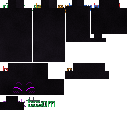
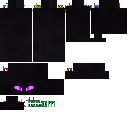
A shade closes her eyes when she is petted
The ^^ was borrowed from the enderman and it never fit her: she is the only one
here with eyes painted into her hide rather than two glowing rectangles bolted
on, so closing them is a thing only she can do. Endermen keep the ^^.

The closed eyes that came back last round become the pet expression, and the
open ones go back on the sheet as her resting face. Both paintings share one
hide, which is not cosmetic -- the shell borrows from it for every texel it
covers but does not repaint, so two different mottle draws would read as a
patch across her face. Re-restyle one and you must re-restyle the other.

It wraps the whole head because her eyes do. They are painted 13..34 across a
front face that runs 16..32, so they overhang three texels onto each side, and
make_shade_face.py reports the overlay reaching east, north and west. An
expression on the front face alone would have left the open eyes' outer corners
showing while the rest of her closed them.

Shell rather than a second sheet, for the reason the shell was already an array:
per-shade variants are coming, and four shades times two expressions is eight
full-body sheets to keep in step, against four plus one 64x32 overlay they all
share. It is cut from the difference between the two paintings, so anything not
about her eyes is transparent by construction and cannot drift.

One opaque pass, not the mask-then-additive pair the ^^ needed. RenderType.eyes
[…]

Changed region(s): [[0.0938, 0.625, 0.2812, 0.7188]]

diff --git a/tools/make_shade_face.py b/tools/make_shade_face.py
@@ -1,34 +1,41 @@
 #!/usr/bin/env python3
-"""Rescale the ^^ face onto the shade's head, and cut a mask that fits it.
+"""Cut the court's pet expression out of a second painting of her head.
 
     python3 tools/make_shade_face.py
 
-The ^^ was drawn for a vanilla enderman: an 8-unit head, so eight texels across
-the face. A shade's head is 16 authored units, which is the same half-block
-wide in game but twice the texels, and the old sheet stretched over it would be
-eight fat squares. This writes the same expression at the size the shade's head
-actually samples, so it can be repainted at the detail the rest of her has.
+A shade does not do the enderman's ^^. She closes her eyes, which is a thing
+only she can do, because only she has eyes painted into her hide rather than
+two glowing rectangles bolted on. Endermen keep the ^^; see enderman_happy.png.
 
-Both sheets are a single 16-cube at texOffs(0, 0), which fills a 64x32 sheet
-exactly:
+Two sheets in, one out:
 
-    up   16..32 / 0..16      down 32..48 / 0..16
-    east  0..16 / 16..32     NORTH 16..32 / 16..32   <- the face
-    west 32..48 / 16..32     south 48..64 / 16..32
+    art/femshade.png       her hide, eyes open      -- what she wears
+    art/femshade_pet.png   the same sheet, eyes closed
+    -> shade_pet.png       the difference, as a shell that goes over her head
 
-That layout is the head island of shade_base.bbmodel moved up by 63 rows and
-nothing else, which is the whole trick: a 16-cube at (0, 0) and a 16-cube at
-(0, 63) lay their faces out identically. So the mask can be cut straight from
-wherever the shade's own sheet is painted, and it lands exactly on top.
+Both sheets must share a hide, because the shell borrows from it: any texel the
+overlay covers but does not repaint has to come back as the hide that is
+already there, or the shell reads as a patch. Re-run mottle_skin.py --restyle
+on one and you must re-run it on the other.
 
-  shade_happy.png       the expression. Drawn through RenderType.eyes, so it
-                        is additive and glows; black is invisible there.
-  shade_happy_mask.png  an opaque plate in ordinary cutout, drawn first, that
-                        hides the eyes already painted on her. Additive art
-                        can only ever sit on top of them otherwise, which
-                        reads as blush rather than as a face.
-  art/shade_happy_guide.png   the same layout with the six faces outlined,
-                        for painting against. Never shipped.
+WHY A SHELL AND NOT A TEXTURE SWAP. Swapping her sheet for a second one is one
+draw instead of two and tempting for that -- but it doubles the art. Per-shade
+variants are coming, and four shades times two expressions is eight full-body
+sheets to keep in step, against four plus one 64x32 shell shared by all of
+them. The shell also cannot drift: it is cut from the difference between the
+two paintings, so anything not about her eyes is transparent by construction.
+
+WHY IT WRAPS THE WHOLE HEAD. Her eyes are painted 13..34 across a front face
+that runs 16..32, so they overhang three texels onto each side of her head. An
+expression on the front face alone would leave the open eyes' outer corners
+showing while the rest of her closed them. The shell is a full head cube and
+the overlay covers whichever faces the paint reaches.
+
+WHY IT IS OPAQUE AND NOT ADDITIVE. The enderman's ^^ draws through
+RenderType.eyes because it is replacing something that glows. Hers do not glow
+-- they are paint on a hide -- so the overlay is ordinary cutout, drawn in one
+pass. That also means it needs no separate mask: the plate that hides the open
+eyes and the closed eyes it draws instead are the same texels.
 """
 
 import os
@@ -37,25 +44,24 @@ from PIL import Image
 
 HERE = os.path.dirname(os.path.dirname(os.path.abspath(__file__)))
 ASSETS = os.path.join(HERE, "src/main/resources/assets/enderdragonanthro/textures/entity")
-SOURCE = os.path.join(ASSETS, "enderman_happy.png")
-SHEET = os.path.join(ASSETS, "shade.png")
+BASE = os.path.join(HERE, "art/femshade.png")
+PET = os.path.join(HERE, "art/femshade_pet.png")
+OUT = os.path.join(ASSETS, "shade_pet.png")
+GUIDE = os.path.join(HERE, "art/shade_pet_guide.png")
 
-CUBE = 16                   # the shade's head, in authored units
-SIZE = (4 * CUBE, 2 * CUBE)  # ...which is exactly one island
-HEAD_V = 63                 # where that island sits on the shade's own sheet
+CUBE = 16                     # her head, in authored units
+SIZE = (4 * CUBE, 2 * CUBE)   # ...which is exactly one island
+HEAD_V = 63                   # where that island sits on her own sheet
 
-# How far the mask spreads past a painted texel. One is enough to swallow the
+# How far the overlay spreads past a texel that differs. One swallows the
 # lashes' stray corners without eating into the hide around them.
 DILATE = 1
 
-
-def upscale(name, out):
-    """The old 8-cube sheet, doubled -- which lands every face where the
-    16-cube wants it, because both islands start at (0, 0)."""
-    src = Image.open(os.path.join(ASSETS, name)).convert("RGBA")
-    big = src.resize((src.width * 2, src.height * 2), Image.NEAREST)
-    big.crop((0, 0, *SIZE)).save(out)
-    return out
+# What counts as paint rather than hide. The mottle tops out around luminance
+# 22 and stays grey by construction, so either test alone would do; both
+# together mean a white highlight survives as readily as a magenta one.
+KEEP_LUM = 30
+KEEP_CHROMA = 12
 
 
 def slots():
@@ -65,65 +71,45 @@ def slots():
 
 
 def on_a_face():
-    """Texels an island actually samples. The corners it does not are where
-    the rig's old island labels ended up, and masking those is just litter."""
+    """Texels an island actually samples. The corners it does not are where the
+    rig's old island labels ended up, and covering those is just litter."""
     return {(ox + i, oy + j) for (ox, oy) in slots().values()
             for j in range(CUBE) for i in range(CUBE)}
 
 
-def painted(sheet):
-    """Texels of the head island the artist has put colour on.
+def is_paint(px, x, y):
+    r, g, b, a = px[x, y]
+    if not a:
+        return False
+    return (0.299 * r + 0.587 * g + 0.114 * b > KEEP_LUM
+            or max(r, g, b) - min(r, g, b) > KEEP_CHROMA)
 
-    Anything that is not hide: the mottle runs to luminance 22 and stays grey,
-    so a threshold on brightness or on chroma catches the eyes and nothing else.
+
+def overlay(base, pet):
+    """Every texel the two paintings disagree on, drawn as the pet one.
+
+    Grown by DILATE first, so a lash the closed eye does not reach is still
+    covered rather than left poking out from under the new expression.
     """
-    px = sheet.load()
-    out = set()
-    for (x, y) in on_a_face():
-        r, g, b, a = px[x, y + HEAD_V]
-        if not a:
-            continue
-        if 0.2126 * r + 0.7152 * g + 0.0722 * b > 30 or max(r, g, b) - min(r, g, b) > 12:
-            out.add((x, y))
-    return out
-
-
-def nearest_hide(sheet, covered, x, y):
-    """Real hide from as close to (x, y) as the paint allows.
-
-    A single averaged tone would be flat, and a flat eye-shaped patch on a
-    mottled face still reads as an eye. Borrowing the nearest unpainted texel
-    keeps the grain running through the plate, so it disappears instead.
-    """
-    px = sheet.load()
+    b, p = base.load(), pet.load()
     surface = on_a_face()
-    for r in range(1, SIZE[0]):
-        ring = [(x + dx, y + dy)
-                for dy in range(-r, r + 1) for dx in range(-r, r + 1)
-                if max(abs(dx), abs(dy)) == r]
-        for p in sorted(ring, key=lambda q: (abs(q[1] - y), abs(q[0] - x))):
-            if p in covered or p not in surface:
-                continue
-            r_, g_, b_, a_ = px[p[0], p[1] + HEAD_V]
-            if a_:
-                return (r_, g_, b_, 255)
-    return (15, 15, 18, 255)
-
-
-def mask(sheet, out):
-    marks = painted(sheet)
-    grown = {(x + dx, y + dy) for (x, y) in marks
+    differ = {(x, y) for (x, y) in surface
+              if b[x, y + HEAD_V] != p[x, y + HEAD_V]
+              or is_paint(b, x, y + HEAD_V) or is_paint(p, x, y + HEAD_V)}
+    grown = {(x + dx, y + dy) for (x, y) in differ
              for dx in range(-DILATE, DILATE + 1)
-             for dy in range(-DILATE, DILATE + 1)} & on_a_face()
+             for dy in range(-DILATE, DILATE + 1)} & surface
+
     img = Image.new("RGBA", SIZE, (0, 0, 0, 0))
     px = img.load()
-    for (x, y) in sorted(grown):
-        px[x, y] = nearest_hide(sheet, grown, x, y)
-    img.save(out)
-    return len(marks), len(grown)
+    for (x, y) in grown:
+        if p[x, y + HEAD_V][3]:
+            px[x, y] = p[x, y + HEAD_V]
+    img.save(OUT)
+    return len(differ), len(grown)
 
 
-def guide(out):
+def guide():
     img = Image.new("RGBA", SIZE, (0, 0, 0, 0))
     px = img.load()
     for name, (ox, oy) in slots().items():
@@ -132,19 +118,25 @@ def guide(out):
             for (x, y) in ((ox + i, oy), (ox + i, oy + CUBE - 1),
                            (ox, oy + i), (ox + CUBE - 1, oy + i)):
                 px[x, y] = edge
-    img.save(out)
+    img.save(GUIDE)
 
 
 def main():
-    face = upscale("enderman_happy.png", os.path.join(ASSETS, "shade_happy.png"))
-    sheet = Image.open(SHEET).convert("RGBA")
-    marks, grown = mask(sheet, os.path.join(ASSETS, "shade_happy_mask.png"))
-    guide(os.path.join(HERE, "art/shade_happy_guide.png"))
-    print(f"{os.path.relpath(face, HERE)}: {SIZE[0]}x{SIZE[1]}, "
+    base = Image.open(BASE).convert("RGBA")
+    pet = Image.open(PET).convert("RGBA")
+    if base.size != pet.size:
+        raise SystemExit("the two sheets must be the same size")
+    differ, grown = overlay(base, pet)
+    guide()
+    faces = sorted({name for name, (ox, oy) in slots().items()
+                    for j in range(CUBE) for i in range(CUBE)
+                    if base.load()[ox + i, oy + j + HEAD_V]
+                    != pet.load()[ox + i, oy + j + HEAD_V]})
+    print(f"{os.path.relpath(OUT, HERE)}: {SIZE[0]}x{SIZE[1]}, "
           f"a {CUBE}-unit head at texOffs(0, 0)")
-    print(f"  mask covers {marks} painted texels, {grown} after dilation, "
-          f"in hide borrowed from around them")
-    print("  art/shade_happy_guide.png: face outlines, for painting against")
+    print(f"  {differ} texels differ or carry paint, {grown} after dilation")
+    print(f"  wraps: {', '.join(faces)}")
+    print(f"  {os.path.relpath(GUIDE, HERE)}: face outlines, for painting against")
 
 
 if __name__ == "__main__":

diff --git a/src/main/java/com/enderdragonanthro/client/render/ShadeLayer.java b/src/main/java/com/enderdragonanthro/client/render/ShadeLayer.java
@@ -55,13 +55,11 @@ public class ShadeLayer extends RenderLayer<EnderMan, EndermanModel<EnderMan>> {
         }
     }
 
-    /** The ^^, at the resolution a 16-unit head samples. */
+    /** Her closed eyes, at the resolution a 16-unit head samples. */
     public static final ModelLayerLocation FACE_LAYER =
             new ModelLayerLocation(EnderdragonAnthro.id("shade_face"), "main");
-    private static final ResourceLocation HAPPY =
-            EnderdragonAnthro.id("textures/entity/shade_happy.png");
-    private static final ResourceLocation HAPPY_MASK =
-            EnderdragonAnthro.id("textures/entity/shade_happy_mask.png");
+    private static final ResourceLocation PET =
+            EnderdragonAnthro.id("textures/entity/shade_pet.png");
 
     private final ShadeModel model;
     private final ModelPart face;
@@ -109,15 +107,15 @@ public class ShadeLayer extends RenderLayer<EnderMan, EndermanModel<EnderMan>> {
                 buffers.getBuffer(RenderType.entityCutoutNoCull(SKINS[slot])), light);
 
         if (EndermanHappyClient.isHappy(enderman)) {
-            // Mask first, in ordinary cutout, because RenderType.eyes is
-            // additive: the expression drawn on its own could only sit on top
-            // of the eyes she already has, which reads as blush, not a face.
+            // She closes her eyes rather than wearing the enderman's ^^ -- one
+            // opaque pass, because hers are paint on a hide and do not glow, so
+            // the plate that covers the open eyes and the closed ones drawn in
+            // their place are the same texels. The shell is a whole head: her
+            // eyes overhang the front face, and half a blink is worse than none.
             this.face.copyFrom(this.model.head());
             this.face.render(poseStack,
-                    buffers.getBuffer(RenderType.entityCutoutNoCull(HAPPY_MASK)),
+                    buffers.getBuffer(RenderType.entityCutoutNoCull(PET)),
                     light, OverlayTexture.NO_OVERLAY);
-            this.face.render(poseStack, buffers.getBuffer(RenderType.eyes(HAPPY)),
-                    15728640, OverlayTexture.NO_OVERLAY);
         }
         poseStack.popPose();
     }
